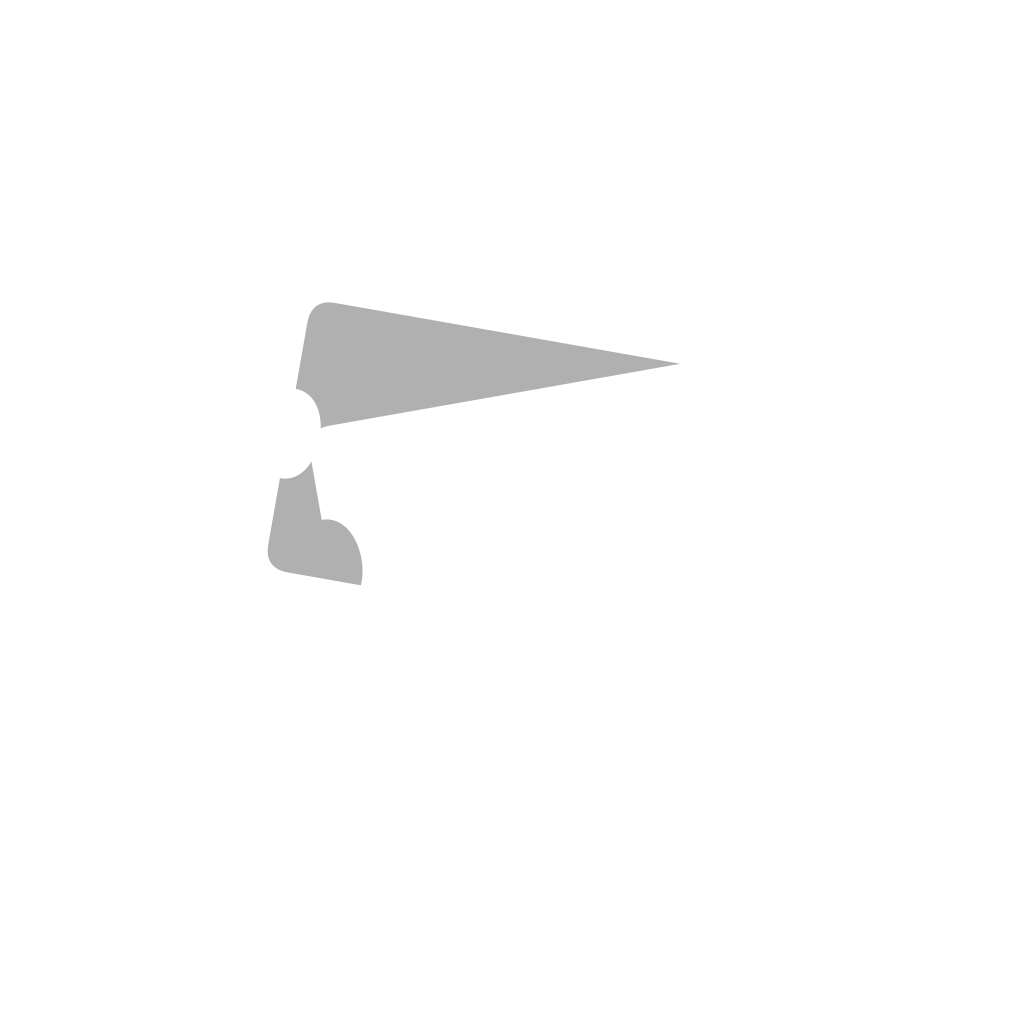
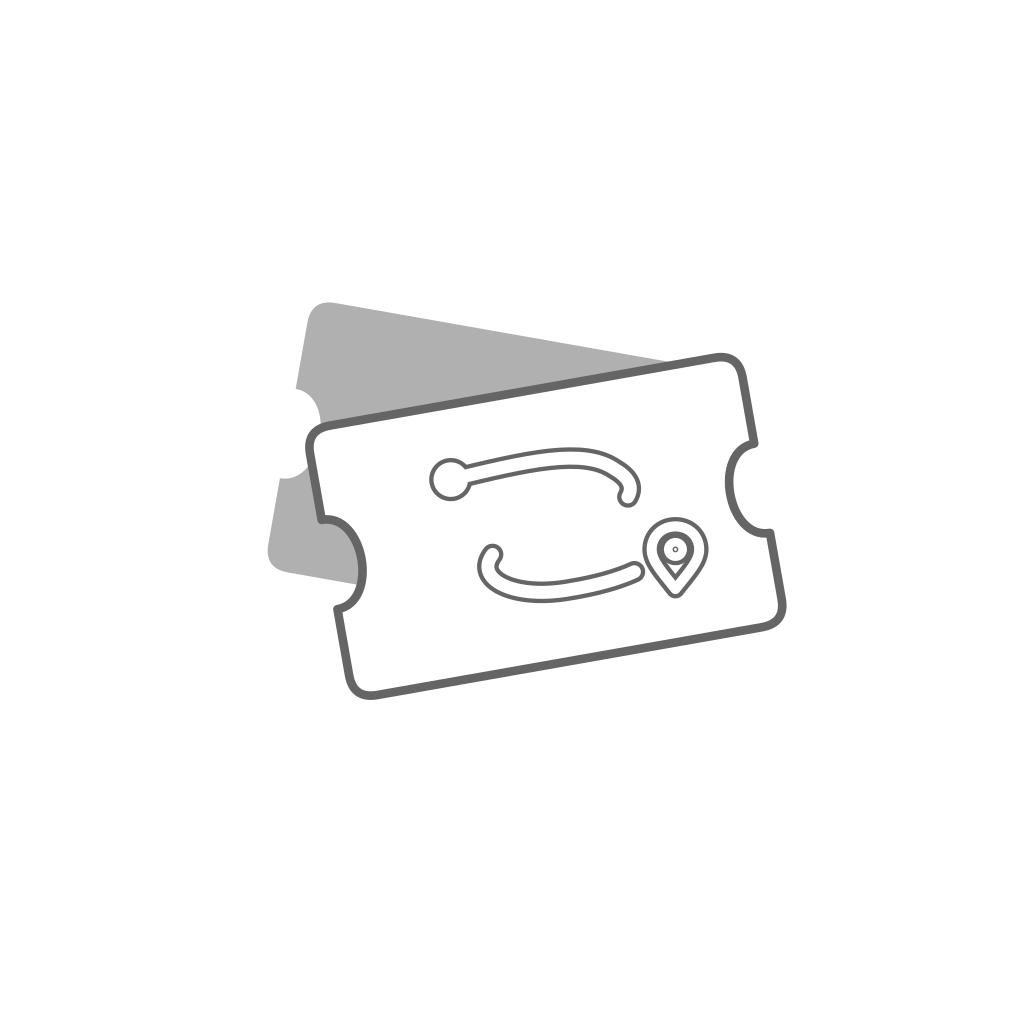
Keep white tickets visible on light backgrounds with grey rims

diff --git a/index.html b/index.html
@@ -10,7 +10,7 @@
     <meta name="description" content="こんどの楽しみを、一緒に。旅の予定・予約・準備を共有できるアプリ。" />
     <link rel="manifest" href="/manifest.webmanifest" />
     <link rel="icon" href="/icons/kondo-icon.svg" type="image/svg+xml" />
-    <link rel="apple-touch-icon" href="/icons/kondo-apple-touch-icon-v6.png" />
+    <link rel="apple-touch-icon" href="/icons/kondo-apple-touch-icon-v7.png" />
     <title>kondo — こんどの楽しみを、一緒に。</title>
     <script>try{var t=localStorage.getItem('tabi.theme');document.documentElement.dataset.theme=(t==='dark'||(t!=='light'&&matchMedia('(prefers-color-scheme:dark)').matches))?'dark':'light'}catch{}</script>
   </head>
